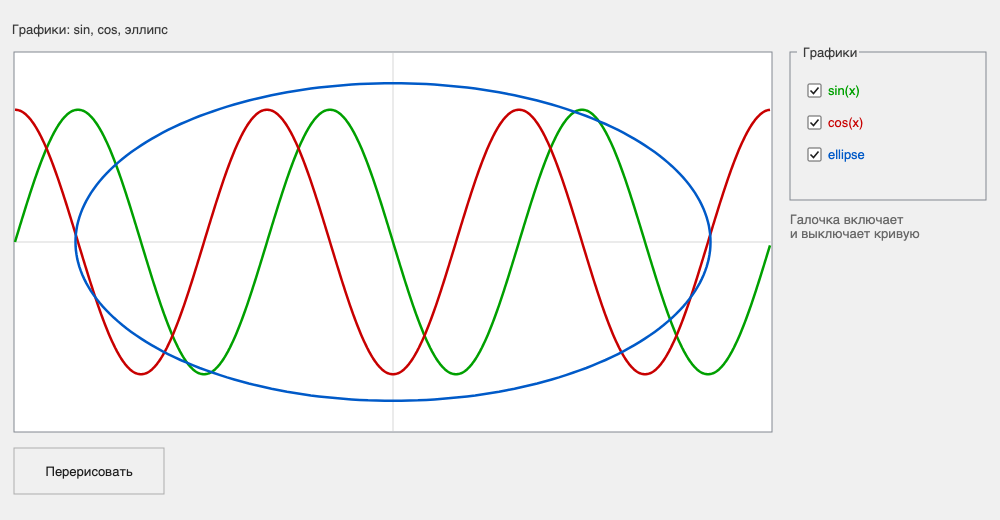
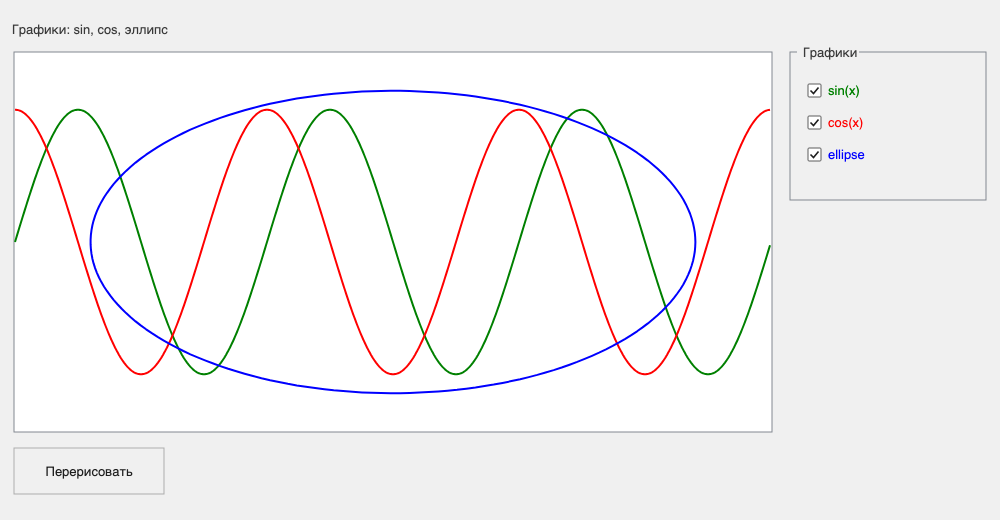
second

diff --git a/WindowsFormsApp31/WindowsFormsApp31/Form1.cs b/WindowsFormsApp31/WindowsFormsApp31/Form1.cs
@@ -1,156 +1,59 @@
 using System;
 using System.Drawing;
-using System.Drawing.Drawing2D;
 using System.Windows.Forms;
 
 namespace WindowsFormsApp31
 {
 	public partial class Form1 : Form
 	{
-		// Сколько периодов sin/cos укладывается по ширине графика
-		private const int Periods = 3;
-
-		// Количество отрезков, которыми обходится эллипс
-		private const int EllipseSteps = 240;
-
-		// Толщина линий графиков
-		private const float PenWidth = 2.5f;
-
-		// Амплитуда волн в долях высоты картинки
-		private const float Amplitude = 0.35f;
-
-		private static readonly Color SinColor = Color.FromArgb(0, 160, 0);      // зелёный
-		private static readonly Color CosColor = Color.FromArgb(200, 0, 0);      // красный
-		private static readonly Color EllipseColor = Color.FromArgb(0, 90, 200); // синий
-
 		public Form1()
 		{
 			InitializeComponent();
-
-			// Минимальный размер окна — как при открытии, дальше можно только увеличивать
-			MinimumSize = Size;
-
-			// При изменении размера картинки график перерисовывается под новый размер
-			pictureBox1.SizeChanged += (s, e) => RenderGraph();
-
-			RenderGraph();
 		}
 
-		protected override void OnFormClosed(FormClosedEventArgs e)
-		{
-			base.OnFormClosed(e);
-
-			// Картинка графика больше не нужна
-			if (pictureBox1.Image != null)
-			{
-				pictureBox1.Image.Dispose();
-				pictureBox1.Image = null;
-			}
-		}
-
-		// Полная перерисовка графика в буфер, чтобы не было мерцания
-		private void RenderGraph()
-		{
-			int width = pictureBox1.ClientSize.Width;
-			int height = pictureBox1.ClientSize.Height;
-
-			if (width <= 0 || height <= 0)
-				return;
-
-			Bitmap bitmap = new Bitmap(width, height);
-
-			using (Graphics g = Graphics.FromImage(bitmap))
-			{
-				g.SmoothingMode = SmoothingMode.AntiAlias;
-				g.Clear(Color.White);
-
-				DrawAxes(g, width, height);
-
-				if (checkBoxSin.Checked)
-					DrawWave(g, width, height, false, SinColor);
-
-				if (checkBoxCos.Checked)
-					DrawWave(g, width, height, true, CosColor);
-
-				if (checkBoxEllipse.Checked)
-					DrawEllipse(g, width, height, EllipseColor);
-			}
-
-			Image previous = pictureBox1.Image;
-			pictureBox1.Image = bitmap;
-
-			if (previous != null)
-				previous.Dispose();
-		}
-
-		// Оси координат — чтобы было видно, где центр
-		private static void DrawAxes(Graphics g, int width, int height)
-		{
-			using (Pen axisPen = new Pen(Color.FromArgb(215, 215, 215), 1f))
-			{
-				g.DrawLine(axisPen, 0, height / 2f, width, height / 2f);
-				g.DrawLine(axisPen, width / 2f, 0, width / 2f, height);
-			}
-		}
-
-		// График sin(x) или cos(x): x пробегает всю ширину, Periods периодов на картинку
-		private static void DrawWave(Graphics g, int width, int height, bool isCos, Color color)
-		{
-			float centerY = height / 2f;
-			float amplitude = height * Amplitude;
-
-			PointF[] points = new PointF[width];
-
-			for (int x = 0; x < width; x++)
-			{
-				double phase = 2.0 * Math.PI * Periods * x / width;
-				double value = isCos ? Math.Cos(phase) : Math.Sin(phase);
-
-				points[x] = new PointF(x, (float)(centerY - value * amplitude));
-			}
-
-			using (Pen pen = new Pen(color, PenWidth))
-			{
-				pen.LineJoin = LineJoin.Round;
-				g.DrawLines(pen, points);
-			}
-		}
-
-		// Эллипс: x = cx + a*cos(t), y = cy + b*sin(t), t от 0 до 2*pi
-		private static void DrawEllipse(Graphics g, int width, int height, Color color)
-		{
-			float centerX = width / 2f;
-			float centerY = height / 2f;
-			float radiusX = width * 0.42f;
-			float radiusY = height * 0.42f;
-
-			PointF[] points = new PointF[EllipseSteps + 1];
-
-			for (int i = 0; i <= EllipseSteps; i++)
-			{
-				double angle = 2.0 * Math.PI * i / EllipseSteps;
-
-				points[i] = new PointF(
-					(float)(centerX + radiusX * Math.Cos(angle)),
-					(float)(centerY + radiusY * Math.Sin(angle)));
-			}
-
-			using (Pen pen = new Pen(color, PenWidth))
-			{
-				pen.LineJoin = LineJoin.Round;
-				g.DrawLines(pen, points);
-			}
-		}
-
+		// Кнопка — единственное, что перерисовывает график
 		private void button1_Click(object sender, EventArgs e)
 		{
-			RenderGraph();
+			pictureBox1.Invalidate();
 		}
 
-		// Общий обработчик для всех трёх галочек
-		private void checkBox_CheckedChanged(object sender, EventArgs e)
+		private void pictureBox1_Paint(object sender, PaintEventArgs e)
 		{
-			RenderGraph();
+			Graphics g = e.Graphics;
+			int w = pictureBox1.Width;
+			int h = pictureBox1.Height;
+			int center = h / 2;
+
+			g.Clear(Color.White);
+
+			// sin — зелёный
+			if (checkBoxSin.Checked)
+			{
+				Point[] points = new Point[w];
+				for (int x = 0; x < w; x++)
+					points[x] = new Point(x, (int)(center - Math.Sin(2 * Math.PI * 3 * x / w) * h * 0.35));
+				g.DrawLines(new Pen(Color.Green, 2), points);
+			}
+
+			// cos — красный
+			if (checkBoxCos.Checked)
+			{
+				Point[] points = new Point[w];
+				for (int x = 0; x < w; x++)
+					points[x] = new Point(x, (int)(center - Math.Cos(2 * Math.PI * 3 * x / w) * h * 0.35));
+				g.DrawLines(new Pen(Color.Red, 2), points);
+			}
+
+			// эллипс — синий
+			if (checkBoxEllipse.Checked)
+			{
+				Point[] points = new Point[200];
+				for (int i = 0; i < 200; i++)
+					points[i] = new Point(
+						(int)(w / 2 + Math.Cos(2 * Math.PI * i / 199) * w * 0.4),
+						(int)(center + Math.Sin(2 * Math.PI * i / 199) * h * 0.4));
+				g.DrawLines(new Pen(Color.Blue, 2), points);
+			}
 		}
 	}
 }

diff --git a/WindowsFormsApp31/WindowsFormsApp31/Form1.Designer.cs b/WindowsFormsApp31/WindowsFormsApp31/Form1.Designer.cs
@@ -35,7 +35,6 @@ namespace WindowsFormsApp31
 			this.checkBoxSin = new System.Windows.Forms.CheckBox();
 			this.checkBoxCos = new System.Windows.Forms.CheckBox();
 			this.checkBoxEllipse = new System.Windows.Forms.CheckBox();
-			this.label1 = new System.Windows.Forms.Label();
 			this.groupBox1.SuspendLayout();
 			((System.ComponentModel.ISupportInitialize)(this.pictureBox1)).BeginInit();
 			this.SuspendLayout();
@@ -52,6 +51,7 @@ namespace WindowsFormsApp31
 			this.pictureBox1.Size = new System.Drawing.Size(758, 380);
 			this.pictureBox1.TabIndex = 0;
 			this.pictureBox1.TabStop = false;
+			this.pictureBox1.Paint += new System.Windows.Forms.PaintEventHandler(this.pictureBox1_Paint);
 			// 
 			// button1
 			// 
@@ -82,59 +82,45 @@ namespace WindowsFormsApp31
 			this.checkBoxSin.AutoSize = true;
 			this.checkBoxSin.Checked = true;
 			this.checkBoxSin.CheckState = System.Windows.Forms.CheckState.Checked;
-			this.checkBoxSin.ForeColor = System.Drawing.Color.FromArgb(((int)(((byte)(0)))), ((int)(((byte)(160)))), ((int)(((byte)(0)))));
+			this.checkBoxSin.ForeColor = System.Drawing.Color.Green;
 			this.checkBoxSin.Location = new System.Drawing.Point(18, 32);
 			this.checkBoxSin.Name = "checkBoxSin";
 			this.checkBoxSin.Size = new System.Drawing.Size(45, 17);
 			this.checkBoxSin.TabIndex = 0;
 			this.checkBoxSin.Text = "sin(x)";
 			this.checkBoxSin.UseVisualStyleBackColor = true;
-			this.checkBoxSin.CheckedChanged += new System.EventHandler(this.checkBox_CheckedChanged);
 			// 
 			// checkBoxCos
 			// 
 			this.checkBoxCos.AutoSize = true;
 			this.checkBoxCos.Checked = true;
 			this.checkBoxCos.CheckState = System.Windows.Forms.CheckState.Checked;
-			this.checkBoxCos.ForeColor = System.Drawing.Color.FromArgb(((int)(((byte)(200)))), ((int)(((byte)(0)))), ((int)(((byte)(0)))));
+			this.checkBoxCos.ForeColor = System.Drawing.Color.Red;
 			this.checkBoxCos.Location = new System.Drawing.Point(18, 64);
 			this.checkBoxCos.Name = "checkBoxCos";
 			this.checkBoxCos.Size = new System.Drawing.Size(48, 17);
 			this.checkBoxCos.TabIndex = 1;
 			this.checkBoxCos.Text = "cos(x)";
 			this.checkBoxCos.UseVisualStyleBackColor = true;
-			this.checkBoxCos.CheckedChanged += new System.EventHandler(this.checkBox_CheckedChanged);
 			// 
 			// checkBoxEllipse
 			// 
 			this.checkBoxEllipse.AutoSize = true;
 			this.checkBoxEllipse.Checked = true;
 			this.checkBoxEllipse.CheckState = System.Windows.Forms.CheckState.Checked;
-			this.checkBoxEllipse.ForeColor = System.Drawing.Color.FromArgb(((int)(((byte)(0)))), ((int)(((byte)(90)))), ((int)(((byte)(200)))));
+			this.checkBoxEllipse.ForeColor = System.Drawing.Color.Blue;
 			this.checkBoxEllipse.Location = new System.Drawing.Point(18, 96);
 			this.checkBoxEllipse.Name = "checkBoxEllipse";
 			this.checkBoxEllipse.Size = new System.Drawing.Size(59, 17);
 			this.checkBoxEllipse.TabIndex = 2;
 			this.checkBoxEllipse.Text = "ellipse";
 			this.checkBoxEllipse.UseVisualStyleBackColor = true;
-			this.checkBoxEllipse.CheckedChanged += new System.EventHandler(this.checkBox_CheckedChanged);
-			// 
-			// label1
-			// 
-			this.label1.Anchor = ((System.Windows.Forms.AnchorStyles)((System.Windows.Forms.AnchorStyles.Top | System.Windows.Forms.AnchorStyles.Right)));
-			this.label1.ForeColor = System.Drawing.Color.DimGray;
-			this.label1.Location = new System.Drawing.Point(790, 214);
-			this.label1.Name = "label1";
-			this.label1.Size = new System.Drawing.Size(190, 32);
-			this.label1.TabIndex = 3;
-			this.label1.Text = "Галочка включает\r\nи выключает кривую";
 			// 
 			// Form1
 			// 
 			this.AutoScaleDimensions = new System.Drawing.SizeF(6F, 13F);
 			this.AutoScaleMode = System.Windows.Forms.AutoScaleMode.Font;
 			this.ClientSize = new System.Drawing.Size(1000, 520);
-			this.Controls.Add(this.label1);
 			this.Controls.Add(this.groupBox1);
 			this.Controls.Add(this.button1);
 			this.Controls.Add(this.pictureBox1);
@@ -145,7 +131,6 @@ namespace WindowsFormsApp31
 			this.groupBox1.PerformLayout();
 			((System.ComponentModel.ISupportInitialize)(this.pictureBox1)).EndInit();
 			this.ResumeLayout(false);
-			this.PerformLayout();
 
 		}
 
@@ -157,6 +142,5 @@ namespace WindowsFormsApp31
 		private System.Windows.Forms.CheckBox checkBoxSin;
 		private System.Windows.Forms.CheckBox checkBoxCos;
 		private System.Windows.Forms.CheckBox checkBoxEllipse;
-		private System.Windows.Forms.Label label1;
 	}
 }
